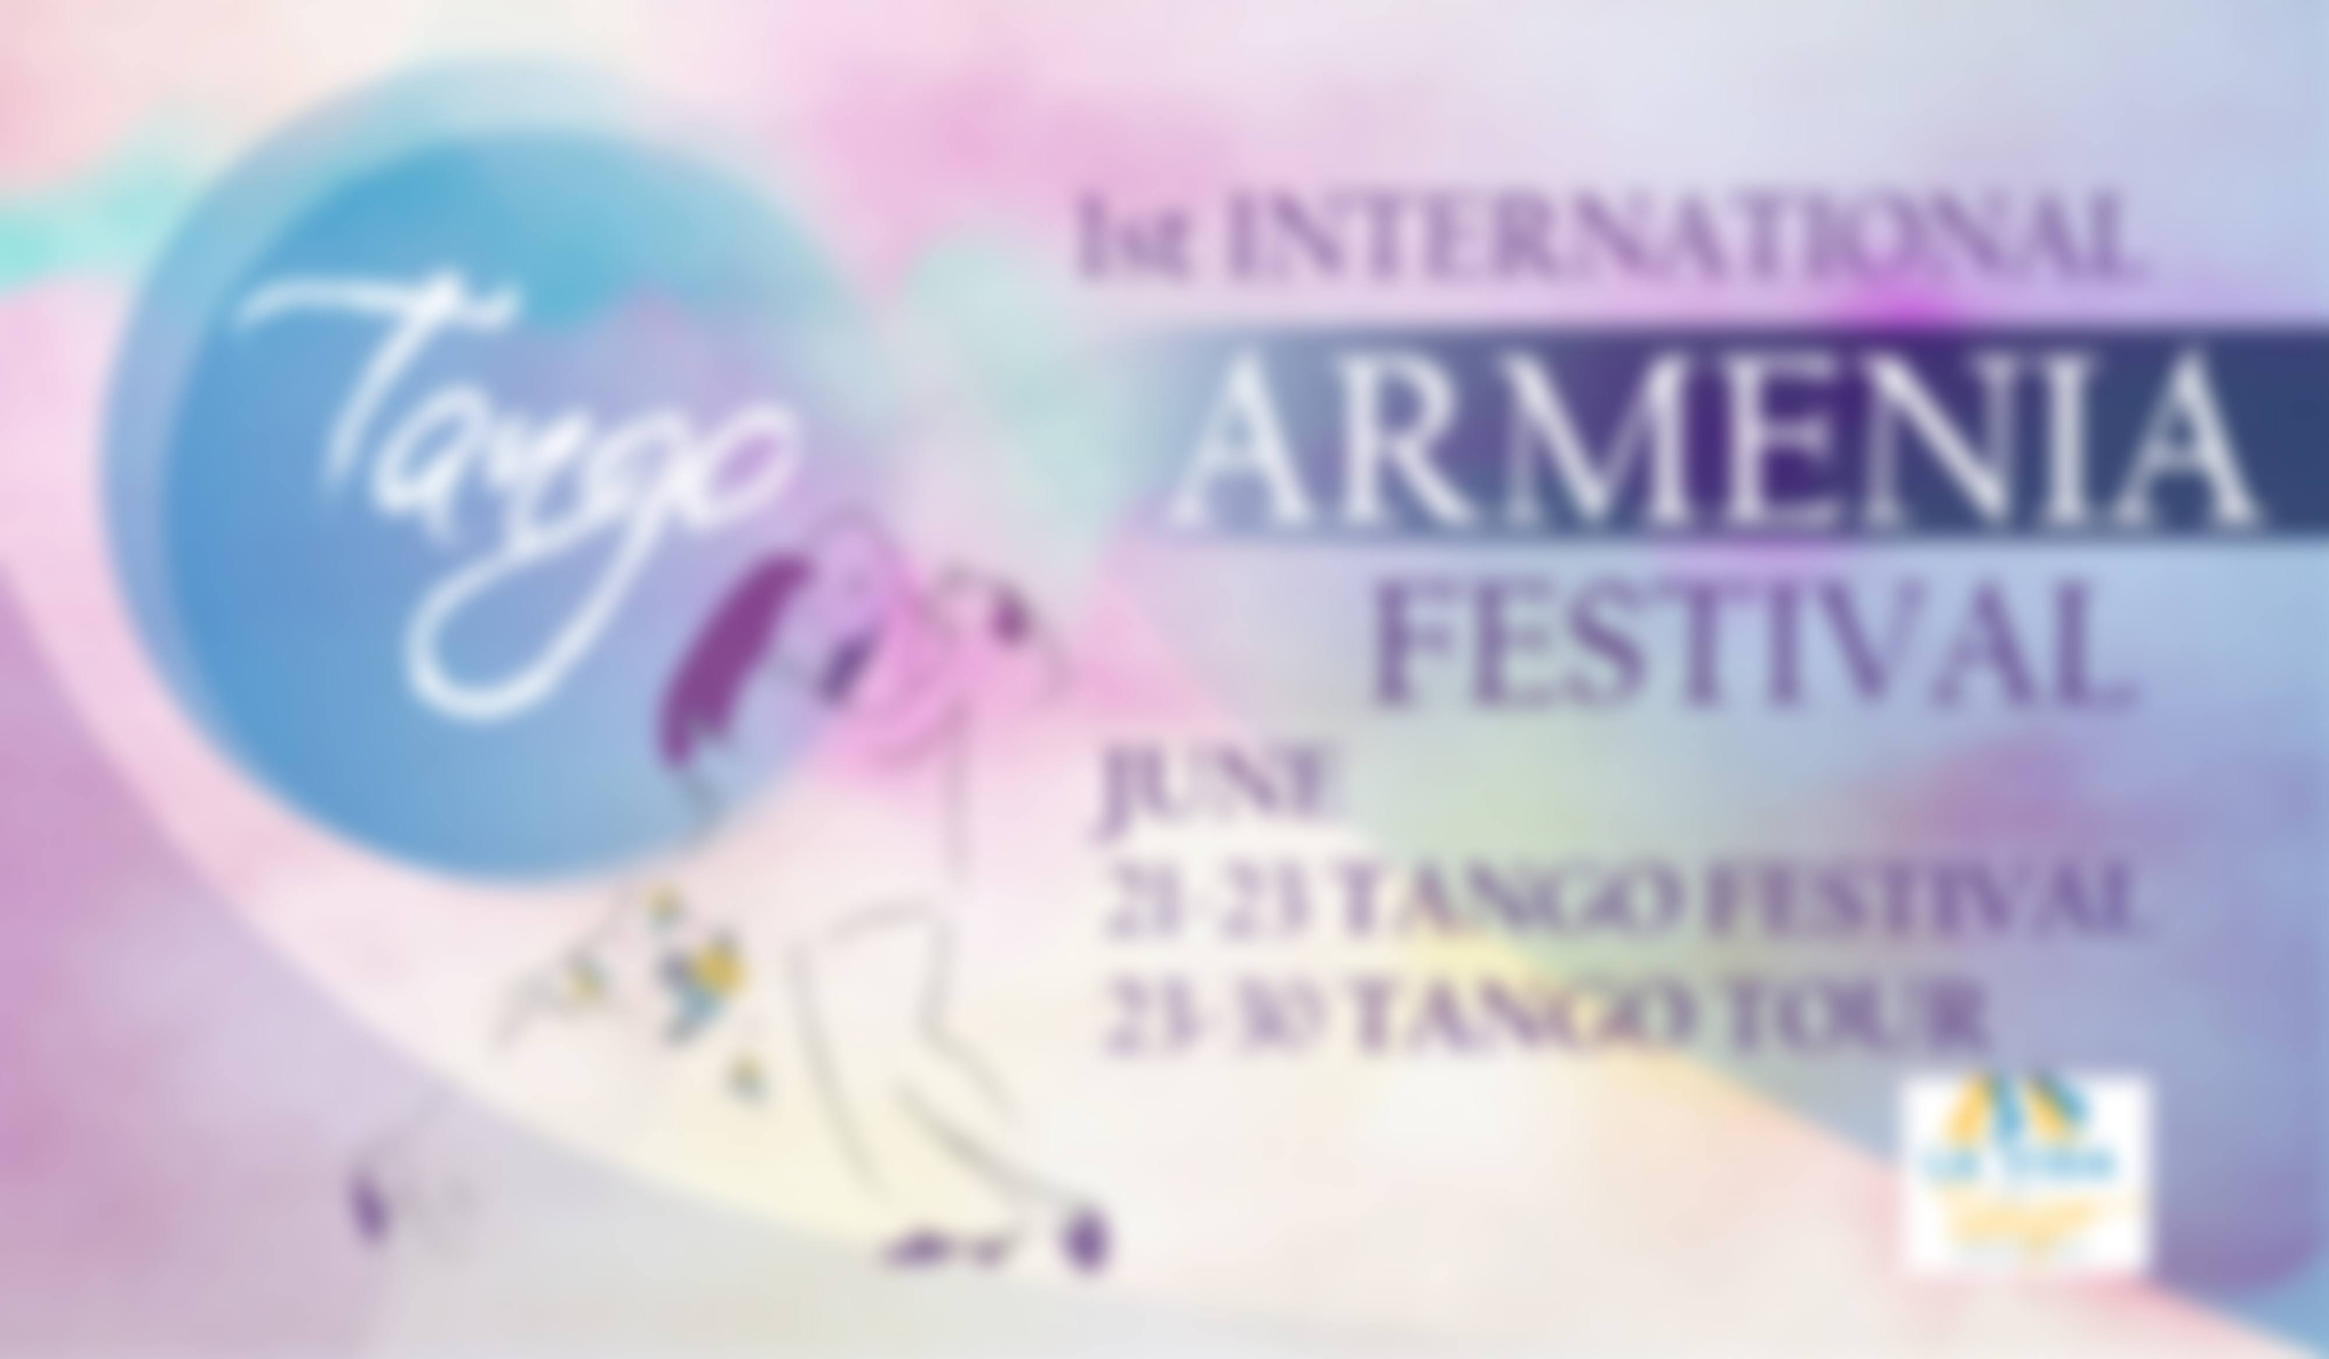
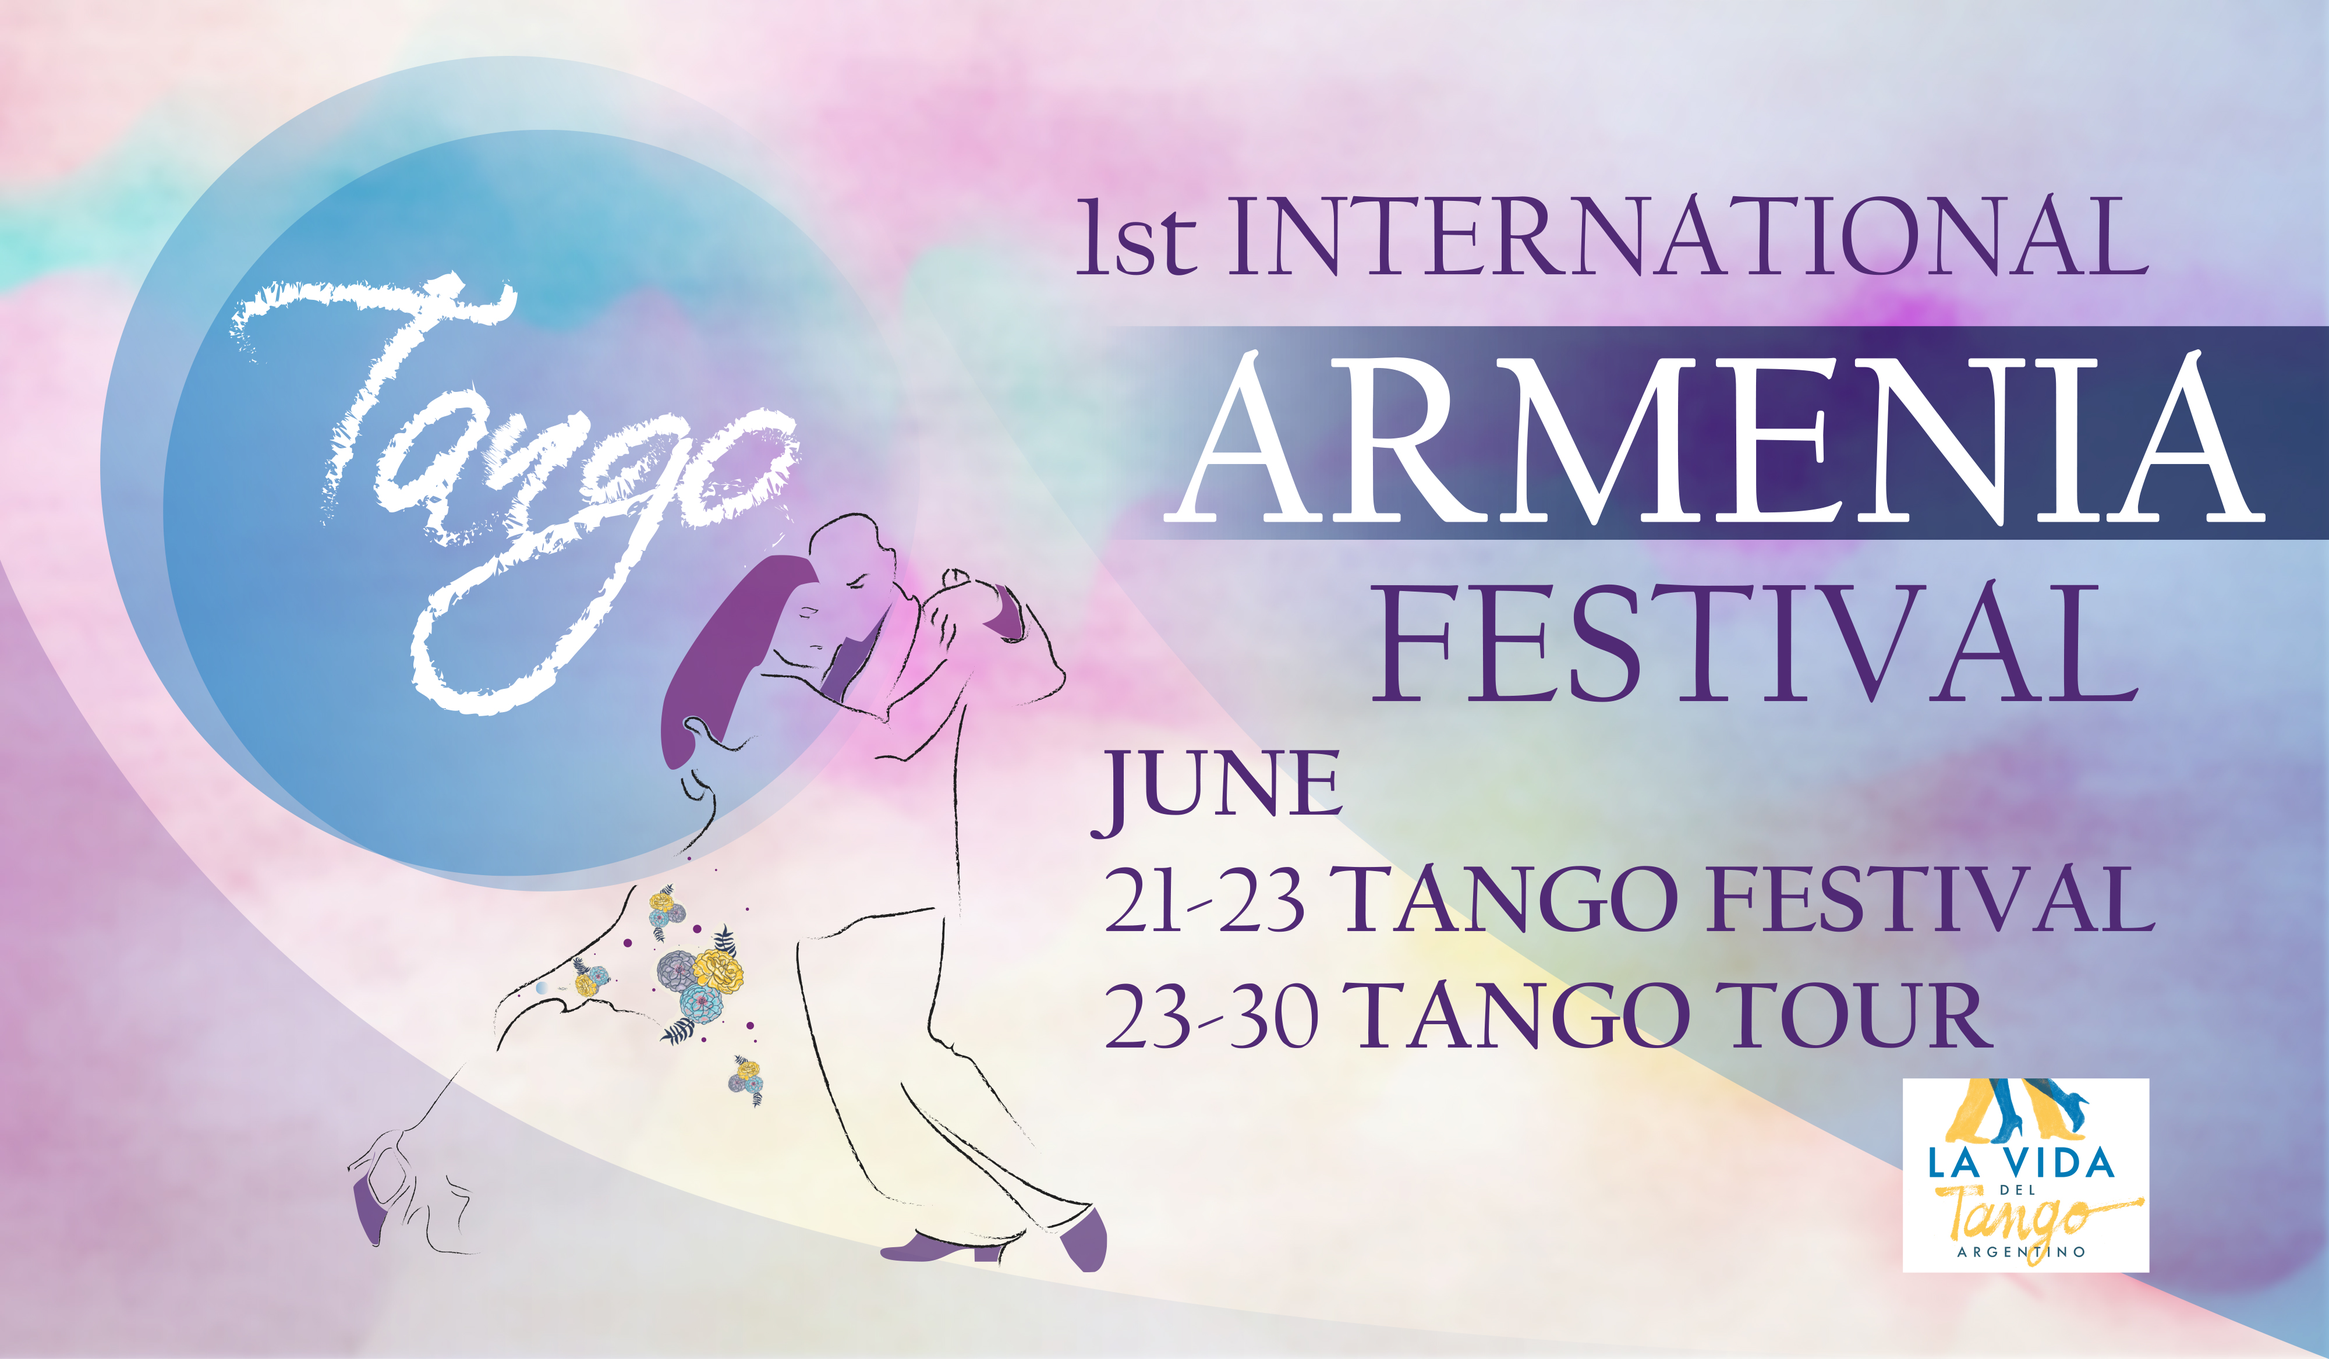
Final updates

diff --git a/src/components/home-sections.js b/src/components/home-sections.js
@@ -1,5 +1,5 @@
 import React, { Fragment } from 'react';
-import Image02 from '../images/tango-poster.png';
+import Image02 from '../images/home-section-background.jpg';
 import Image03 from '../images/03.jpg';
 
 const HomeSections = () => (
@@ -7,25 +7,17 @@ const HomeSections = () => (
     <section>
       <div className="container">
         <div className="row align-items-center">
-          <div className="col-lg-12">
-            <div className="p-5">
-              <a href={Image02} target="_blank">
-                <img className="img-fluid" src={Image02} alt="" />
-              </a>
+          <div className="col-lg-6">
+            <div>
+              <img className="img-fluid" src={Image02} alt="" />
             </div>
           </div>
-          <div className="col-lg-12 text-center">
+          <div className="col-lg-6 text-center">
             <div className="p-5">
               <h2 className="display-4">Argentine Tango Festival</h2>
               <div className="text-left">
                 <p>
                   Maestros, tangueras, tangueros, and DJs from all over the world will join us for this inaugural Tango Festival in Armenia – the ancient land at the crossroads of East and West. The festival includes two weekends of workshops, milongas, after-parties, and guided tours of the capital city and the regions. 
-                </p>
-                <p>
-                  The opening milonga will take place on the rooftop of the beautiful boutique hotel, Fourteenth Floor, in the heart of Yerevan. We will dance in the fresh air and beautiful sunset till midnight. The next three days will be filled with workshops, milongas, and tours throughout Armenia. There will be a special trip to Shorja, Sevan for an Armenian barbeque. Finally, in one of the most beautiful regions of the country – Tsakhkadzor – we will continue with workshops and our gala milonga at the Grand Sports Complex.
-                </p>
-                <p>
-                  We have full package from 21st - 30th of June, but if you are planning to come only one weekend, you can choose between the following options in Yerevan or in Tsakhkadzor.
                 </p>
               </div>
             </div>
@@ -36,26 +28,23 @@ const HomeSections = () => (
     <section>
       <div className="container">
         <div className="row align-items-center">
-          <div className="col-lg-12">
-            <div className="p-5">
-              <iframe
-                width="100%"
-                height="592"
-                border="0"
-                src="https://www.youtube.com/embed/gjEFDYyryiw" />
-            </div>
-          </div>
-          <div className="col-lg-12 text-center">
+          <div className="col-lg-6 text-center">
             <div className="p-5">
               <h2 className="display-4">About Armenia</h2>
               <div className="text-left">
                 <p>
-                  Armenia's landscapes offer boundless beauty. Seven main landscape types are represented across the different altitudinal zones of Armenia. Across these desert, semi desert, dry steppe, steppe, woodland, sub alpine and alpine zones is geography as diverse as high mountain peaks, fertile valleys, picturesque land formations, basalt columns, rock sculptures, and waterfalls. More than 200 rivers and streams traverse Armenia, with steep falls, rapids and swift currents. Armenia has 5 scenic canyons. In addition, there are over 200 therapeutic mineral springs, differing in composition and temperature.
-                </p>
-                <p>
-                  Armenians love music, and they have been creating exquisite compositions for centuries. Sharakans are traditional Armenian liturgical songs, which are experiencing a revival today. Distinctive musical instruments are used to play Armenian folk songs. Sayat Nova, Komitas, and Aram Khachaturian are among Armenia's best-known musicians and composers. Contemporary music comes in the forms of jazz and pop.
+                  Armenia's landscapes offer boundless beauty. Seven main landscape types are represented across the different altitudinal zones of Armenia. Across these desert, semi desert, dry steppe, steppe, woodland, sub alpine and alpine zones is geography as diverse as high mountain peaks, fertile valleys, picturesque land formations, basalt columns, rock sculptures, and waterfalls. More than 200 rivers and streams traverse Armenia, with steep falls, rapids and swift currents. 
                 </p>
               </div>
+            </div>
+          </div>
+          <div className="col-lg-6">
+            <div className="p-5">
+              <iframe
+                width="100%"
+                height="300"
+                border="0"
+                src="https://www.youtube.com/embed/gjEFDYyryiw" />
             </div>
           </div>
         </div>

diff --git a/src/pages/workshop-topics.js b/src/pages/workshop-topics.js
@@ -1,0 +1,149 @@
+import React from 'react';
+import Layout from '../components/layout';
+
+const WorkshopTopics = () => (
+  <Layout>
+    <section className="jumbotron text-center">
+      <div className="container">
+        <h1 className="jumbotron-heading">Workshop Topics</h1>
+        <p className="lead text-muted">
+          Explore workshop topics by your experience level 
+        </p>
+        <h5>Ronen Khayat and Dorit Shalom</h5>
+        <table class="table">
+          <thead>
+            <tr>
+              <th scope="col">Beginners</th>
+              <th scope="col">Intermediate</th>
+              <th scope="col">Advanced</th>
+            </tr>
+          </thead>
+          <tbody>
+            <tr>
+              <td>
+                <div>
+                  Tango Itself- Connection, embrace, walking.    
+                </div>
+                <div>
+                  Paradas into a change of direcrion.
+                </div>
+              </td>
+              <td>
+                <div>
+                  Sacadas Chain- for Leaders and Followers
+                </div>
+                <div>
+                  Giros! Turnning to both ditections.
+                </div>
+                <div>
+                  Dynamics of Boleo
+                </div>
+              </td>
+              <td>
+                <div>
+                  Out of Axis 1- Colgadas
+                </div>
+                <div>
+                  Out of Axis 2- Volcadas
+                </div>
+                <div>
+                  Ganchos made out of dynamic places
+                </div>
+              </td>
+            </tr>
+          </tbody>
+        </table>
+        <h5>Yuliana Basmajyan and Dominic Bridge</h5>
+        <table class="table">
+          <thead>
+            <tr>
+              <th scope="col">Beginners</th>
+              <th scope="col">Intermediate</th>
+              <th scope="col">Advanced</th>
+            </tr>
+          </thead>
+          <tbody>
+            <tr>
+              <td>
+                <div>
+                  Make the walk Great again    
+                </div>
+                <div>
+                  La Caminada
+                </div>
+              </td>
+              <td>
+                <div>
+                  Las Caderas
+                </div>
+                <div>
+                  Sacadas
+                </div>
+                <div>
+                  Milonga con Onda
+                </div>
+                <div>
+                  Boleoes and friends
+                </div>
+              </td>
+              <td>
+                <div>
+                  Stylish "Alternative" Sequences
+                </div>
+                <div>
+                  Colcadas
+                </div>
+              </td>
+            </tr>
+          </tbody>
+        </table>
+        <h5>Ronen Khayat and Dorit Shalom</h5>
+        <table class="table">
+          <thead>
+            <tr>
+              <th scope="col">Beginners</th>
+              <th scope="col">Intermediate</th>
+              <th scope="col">Advanced</th>
+            </tr>
+          </thead>
+          <tbody>
+            <tr>
+              <td>
+                <div>
+                  Tango Itself- Connection, embrace, walking.    
+                </div>
+                <div>
+                  Paradas into a change of direcrion.
+                </div>
+              </td>
+              <td>
+                <div>
+                  Sacadas Chain- for Leaders and Followers
+                </div>
+                <div>
+                  Giros! Turnning to both ditections.
+                </div>
+                <div>
+                  Dynamics of Boleo
+                </div>
+              </td>
+              <td>
+                <div>
+                  Out of Axis 1- Colgadas
+                </div>
+                <div>
+                  Out of Axis 2- Volcadas
+                </div>
+                <div>
+                  Ganchos made out of dynamic places
+                </div>
+              </td>
+            </tr>
+          </tbody>
+        </table>
+      </div>
+    </section>
+  </Layout>
+);
+
+export default WorkshopTopics;

diff --git a/src/components/footer.js b/src/components/footer.js
@@ -14,13 +14,15 @@ const Footer = () => (
   <footer className="bg-black">
     <Container>
       <Row>
-        <Col sm={12} md={3} lg={3} className="mt-4 mb-1">
+        <Col sm={12} md={4} lg={4} className="mt-4 mb-1">
           <h5 className="font-weight-bold text-uppercase mb-4">
             #ArmTangoFest2019
           </h5>
-          <p>First international tango festival in armenia.</p>
+          <p>
+            Maestros, tangueras, tangueros, and DJs from all over the world will join us for this inaugural Tango Festival in Armenia – the ancient land at the crossroads of East and West. 
+          </p>
         </Col>
-        <Col sm={12} md={3} lg={3} className="mt-4 mb-1">
+        <Col sm={12} md={4} lg={4} className="mt-4 mb-1">
           <h5 className="font-weight-bold text-uppercase mb-4">
             Contact
           </h5>
@@ -43,14 +45,40 @@ const Footer = () => (
             &nbsp;
             <a
               target="_blank"
+              href="https://www.facebook.com/armtangofest">
+              @armtangofest
+            </a>
+          </p>
+        </Col>
+        <Col sm={12} md={4} lg={4} className="mt-4 mb-1">
+          <h5 className="font-weight-bold text-uppercase mb-4">
+            Useful links
+          </h5>
+          <p>
+            <a
+              target="_blank"
+              href="https://docs.google.com/forms/d/e/1FAIpQLSe8pL_3YiNJZbFwPC1gtCggzjHjid14rbZnDXJRYbFzYsBi_w/viewform">
+              Book now
+            </a>
+          </p>
+          <p>
+            <a
+              target="_blank"
+              href="https://www.facebook.com/events/279299639637976/">
+              Join Event on Facebook
+            </a>
+          </p>
+          <p>
+            <a
+              target="_blank"
               href="https://www.facebook.com/lavida.tango.yerevan">
-              @lavida.tango.yerevan
+              Tango School Facebook page
             </a>
           </p>
         </Col>
       </Row>
     </Container>
-    <div className="footer-copyright text-center py-3">
+    <div className="footer-copyright text-center py-4">
       <div>© 2019 Copyright: ArmTangoFest2019</div>
       <div>
         Developed by

diff --git a/src/pages/workshops-and-milongas.js b/src/pages/workshops-and-milongas.js
@@ -18,8 +18,8 @@ const WorkshopsAndMilongas = () => (
           <thead>
             <tr>
               <th scope="col">Workshops and Milongas</th>
-              <th scope="col">Before April 21st</th>
-              <th scope="col">Before Mar 21st</th>
+              <th scope="col">Before 21st of April</th>
+              <th scope="col">Before 21st of May</th>
               <th scope="col">Late reservation</th>
             </tr>
           </thead>
@@ -67,19 +67,19 @@ const WorkshopsAndMilongas = () => (
               <td>€85</td>
             </tr>
             <tr>
-              <th scope="row">Yerevan milonga + 3 workshops</th>
+              <th scope="row">Yerevan milongas + 3 workshops</th>
               <td>€75</td>
               <td>€90</td>
               <td>€120</td>
             </tr>
             <tr>
-              <th scope="row">Yerevan milonga + 5 workshops</th>
-              <td>€27</td>
-              <td>€30</td>
-              <td>€35</td>
+              <th scope="row">Yerevan milongas + 5 workshops</th>
+              <td>€125</td>
+              <td>€150</td>
+              <td>€185</td>
             </tr>
             <tr>
-              <th scope="row">Tsakhkadzor milonga + 4 workshops</th>
+              <th scope="row">Tsakhkadzor milongas + 4 workshops</th>
               <td>€95</td>
               <td>€115</td>
               <td>€140</td>

diff --git a/src/components/navigation.js b/src/components/navigation.js
@@ -24,12 +24,15 @@ const Navigation = ({ siteTitle }) => (
             <NavDropdown.Item as={Link} to="/orchestra">Orchestra</NavDropdown.Item>
             <NavDropdown.Item as={Link} to="/maestros">Teachers/Dancers</NavDropdown.Item>
           </NavDropdown>
-          <NavDropdown title="Packages">
+          <NavDropdown title="Booking">
             <NavDropdown.Item as={Link} to="/packages">
               Festival and Tour packages
             </NavDropdown.Item>
             <NavDropdown.Item as={Link} to="/workshops-and-milongas">
               Workshops and milongas
+            </NavDropdown.Item>
+            <NavDropdown.Item as={Link} to="/workshop-topics">
+              Workshop Topics
             </NavDropdown.Item>
           </NavDropdown>
           <Nav.Link as={Link} to="/contact-us">Contact Us</Nav.Link>

diff --git a/src/components/scss/_masthead.scss b/src/components/scss/_masthead.scss
@@ -1,17 +1,11 @@
 header.masthead {
   position: relative;
   overflow: hidden;
-  padding-top: calc(7rem + 72px);
-  padding-bottom: 7rem;
-  background: url('../../images/home-section-background.jpg');
-  background-repeat: no-repeat;
-  background-position: center center;
-  background-attachment: scroll;
-  background-size: cover;
   .masthead-content {
     z-index: 1;
     position: relative;
     color: rgba(0,0,0,.7);
+    height: 100%;
     .masthead-heading {
       font-size: 4rem;
     }
@@ -23,8 +17,6 @@ header.masthead {
 
 @media (min-width: 992px) {
   header.masthead {
-    padding-top: calc(10rem + 55px);
-    padding-bottom: 10rem;
     .masthead-content {
       .masthead-heading {
         font-size: 6rem;

diff --git a/src/components/header.js b/src/components/header.js
@@ -1,14 +1,10 @@
 import React from 'react';
 import { Link } from 'gatsby';
+import Image02 from '../images/tango-poster.png';
 
 const Header = () => (
   <header className="masthead text-center text-white">
-    <div className="masthead-content">
-      <div className="container">
-        <h1 className="masthead-heading mb-0">1st International</h1>
-        <h2 className="masthead-subheading mb-0">Tango Festival in Armenia</h2>
-      </div>
-    </div>
+    <img className="img-fluid" src={Image02} alt="" />
   </header>
 );
 
